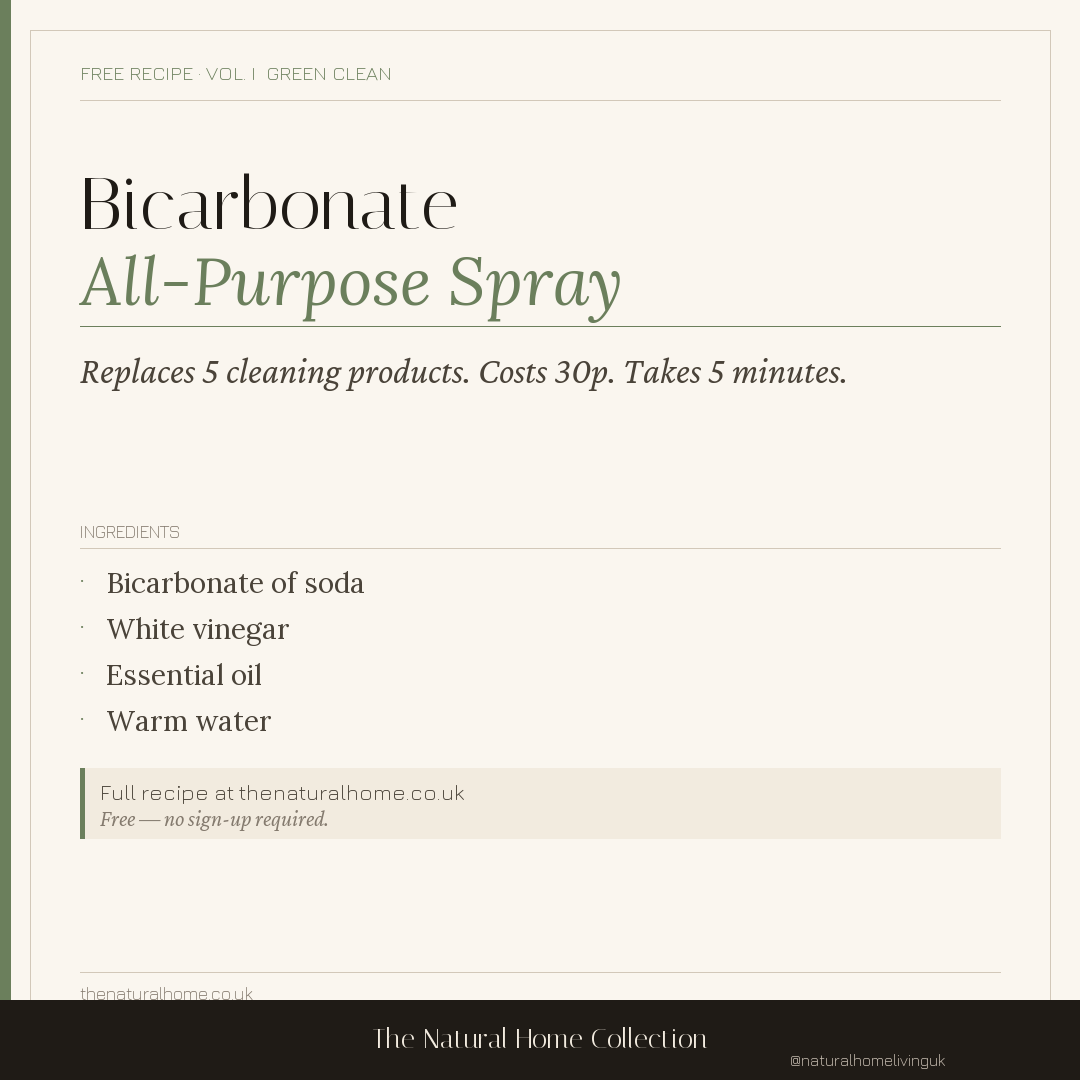
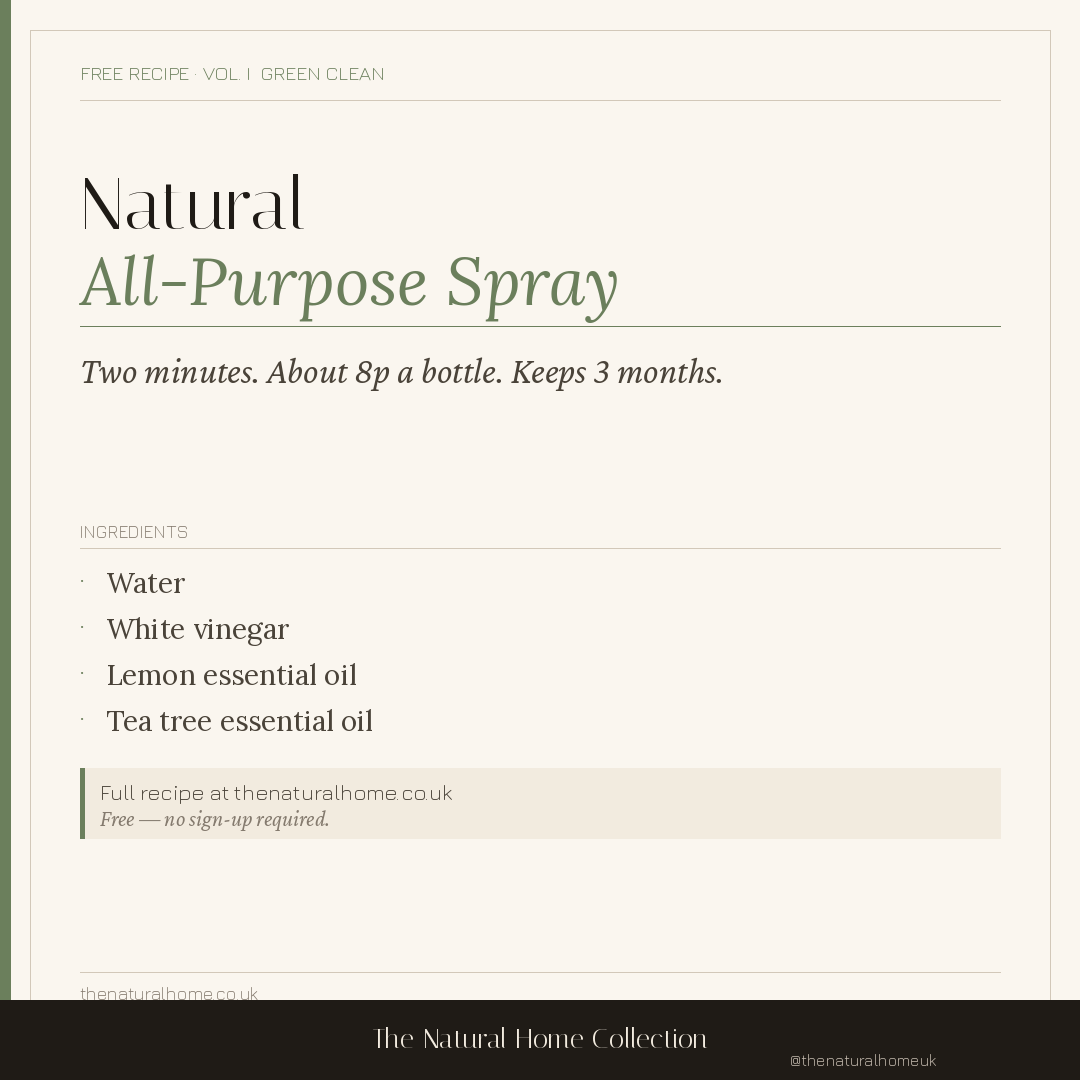
All-purpose spray: use the handbook's vinegar recipe; add homepage canonical
The old spray pre-mixed bicarbonate and vinegar, which the Green Clean
Handbook says cancel each other out. Replace it with the handbook's
Recipe 1 (All-Purpose Kitchen Spray) across the page, schema, meta,
recipe cards and Instagram post 07, and add a bare-domain canonical
to the homepage.

diff --git a/recipes/green-clean-all-purpose-spray.html b/recipes/green-clean-all-purpose-spray.html
@@ -11,36 +11,35 @@
 </script>
 <meta charset="UTF-8">
 <meta name="viewport" content="width=device-width, initial-scale=1.0">
-<title>Bicarbonate All-Purpose Cleaner Recipe — UK | The Natural Home Collection</title>
-<meta name="description" content="Free natural all-purpose cleaner recipe using bicarbonate of soda, white vinegar and essential oil. One spray for most hard surfaces. Costs about 30p per bottle. Tested in a UK home.">
+<title>Natural All-Purpose Cleaning Spray Recipe (Vinegar) — UK | The Natural Home Collection</title>
+<meta name="description" content="Free natural all-purpose cleaning spray recipe: water, white vinegar, lemon and tea tree essential oil. Makes 600 ml in two minutes for about 8p. From The Green Clean Handbook.">
 <link rel="canonical" href="https://thenaturalhome.co.uk/recipes/green-clean-all-purpose-spray.html">
-<meta property="og:title" content="Bicarbonate All-Purpose Cleaner Recipe — Free from The Natural Home Collection">
-<meta property="og:description" content="The one recipe that replaces five cleaning products under your sink — and costs about 30p to make.">
+<meta property="og:title" content="Natural All-Purpose Cleaning Spray Recipe (Vinegar) — Free from The Natural Home Collection">
+<meta property="og:description" content="Water, white vinegar and two essential oils. Two minutes to make, about 8p a bottle.">
 <meta property="og:type" content="article">
 <script type="application/ld+json">
 {
   "@context": "https://schema.org",
   "@type": "HowTo",
-  "name": "Natural Bicarbonate All-Purpose Cleaning Spray",
-  "description": "A natural all-purpose cleaning spray made from bicarbonate of soda, white vinegar, water and essential oil. Suitable for kitchen worktops, bathroom surfaces, glass and tiles.",
-  "totalTime": "PT5M",
-  "estimatedCost": { "@type": "MonetaryAmount", "currency": "GBP", "value": "0.30" },
+  "name": "Natural All-Purpose Kitchen Spray",
+  "description": "A natural all-purpose cleaning spray made from water, white vinegar, lemon essential oil and tea tree essential oil.",
+  "totalTime": "PT2M",
+  "estimatedCost": { "@type": "MonetaryAmount", "currency": "GBP", "value": "0.08" },
+  "yield": "600 ml",
   "supply": [
-    { "@type": "HowToSupply", "name": "Bicarbonate of soda — 1 tablespoon" },
-    { "@type": "HowToSupply", "name": "White distilled vinegar — 250 ml" },
-    { "@type": "HowToSupply", "name": "Warm water — 250 ml" },
-    { "@type": "HowToSupply", "name": "Lemon or tea tree essential oil — 10 drops" }
+    { "@type": "HowToSupply", "name": "Water — 500 ml" },
+    { "@type": "HowToSupply", "name": "White vinegar — 100 ml" },
+    { "@type": "HowToSupply", "name": "Lemon essential oil — 10 drops" },
+    { "@type": "HowToSupply", "name": "Tea tree essential oil — 5 drops" }
   ],
   "tool": [
-    { "@type": "HowToTool", "name": "500 ml glass spray bottle" },
-    { "@type": "HowToTool", "name": "Funnel" }
+    { "@type": "HowToTool", "name": "Spray bottle" },
+    { "@type": "HowToTool", "name": "Microfibre cloth" }
   ],
   "step": [
-    { "@type": "HowToStep", "name": "Fill the bottle", "text": "Pour the warm water into the spray bottle." },
-    { "@type": "HowToStep", "name": "Add the bicarbonate", "text": "Add the bicarbonate of soda. Swirl gently to dissolve. Some sediment is fine." },
-    { "@type": "HowToStep", "name": "Add the vinegar", "text": "Add the vinegar slowly. The mixture will fizz briefly — this is normal. Wait until it settles." },
-    { "@type": "HowToStep", "name": "Finish with essential oil", "text": "Add 10 drops of essential oil. Screw the cap on tightly and shake to combine." },
-    { "@type": "HowToStep", "name": "Use", "text": "Spray onto surfaces and wipe with a microfibre cloth. Shake before each use." }
+    { "@type": "HowToStep", "name": "Combine", "text": "Combine all ingredients in a spray bottle." },
+    { "@type": "HowToStep", "name": "Shake", "text": "Shake gently before each use." },
+    { "@type": "HowToStep", "name": "Spray and wipe", "text": "Spray onto surfaces and leave for 30 seconds before wiping with a microfibre cloth." }
   ],
   "author": { "@type": "Person", "name": "C. Morrison" }
 }
@@ -72,54 +71,51 @@
 </div>
 <section class="recipe-head">
   <span class="book-tag">From Volume i  ·  The Green Clean Handbook</span>
-  <h1 class="display reveal">Bicarbonate <em>All-Purpose</em> Cleaning Spray</h1>
-  <p class="lead reveal">The one recipe that replaces five cleaning products under your sink. Costs about 30p per bottle, takes five minutes, and works on every hard surface in the house except untreated wood and natural stone.</p>
+  <h1 class="display reveal">Natural <em>All-Purpose</em> Cleaning Spray</h1>
+  <p class="lead reveal">Water, white vinegar and two essential oils. Two minutes to make and about 8p a bottle, against £2.50–£4.00 for the supermarket equivalent — the best money-per-minute swap in the book.</p>
   <div class="meta-bar">
-    <div class="meta-item"><div class="meta-label">Time</div><div class="meta-value">5 mins</div></div>
-    <div class="meta-item"><div class="meta-label">Makes</div><div class="meta-value">500 ml</div></div>
-    <div class="meta-item"><div class="meta-label">Cost</div><div class="meta-value">~ 30p</div></div>
-    <div class="meta-item"><div class="meta-label">Shelf life</div><div class="meta-value">3 months</div></div>
+    <div class="meta-item"><div class="meta-label">Time</div><div class="meta-value">2 mins</div></div>
+    <div class="meta-item"><div class="meta-label">Makes</div><div class="meta-value">600 ml</div></div>
+    <div class="meta-item"><div class="meta-label">Cost</div><div class="meta-value">~ 8p</div></div>
+    <div class="meta-item"><div class="meta-label">Keeps</div><div class="meta-value">3 months</div></div>
   </div>
 </section>
 <div class="recipe-body">
   <aside class="ingredients-col">
     <h2>Ingredients</h2>
     <ul class="ingredients-list">
-      <li><strong>1 tbsp</strong> <a href="https://www.amazon.co.uk/s?k=bicarbonate+soda+5kg+bulk&tag=thenaturalhome-21" target="_blank" rel="noopener sponsored">bicarbonate of soda</a></li>
-      <li><strong>250 ml</strong> <a href="https://www.amazon.co.uk/s?k=white+distilled+vinegar+5+litre+cleaning&tag=thenaturalhome-21" target="_blank" rel="noopener sponsored">white distilled vinegar</a></li>
-      <li><strong>250 ml</strong> warm water (just off the kettle)</li>
-      <li><strong>10 drops</strong> <a href="https://www.amazon.co.uk/s?k=lemon+essential+oil+30ml&tag=thenaturalhome-21" target="_blank" rel="noopener sponsored">lemon</a> or <a href="https://www.amazon.co.uk/s?k=tea+tree+essential+oil+30ml&tag=thenaturalhome-21" target="_blank" rel="noopener sponsored">tea tree</a> essential oil</li>
+      <li><strong>500 ml</strong> water</li>
+      <li><strong>100 ml</strong> <a href="https://www.amazon.co.uk/s?k=white+distilled+vinegar+5+litre+cleaning&tag=thenaturalhome-21" target="_blank" rel="noopener sponsored">white vinegar</a></li>
+      <li><strong>10 drops</strong> <a href="https://www.amazon.co.uk/s?k=lemon+essential+oil+30ml&tag=thenaturalhome-21" target="_blank" rel="noopener sponsored">lemon essential oil</a></li>
+      <li><strong>5 drops</strong> <a href="https://www.amazon.co.uk/s?k=tea+tree+essential+oil+30ml&tag=thenaturalhome-21" target="_blank" rel="noopener sponsored">tea tree essential oil</a></li>
     </ul>
     <h2 style="margin-top:36px">You'll need</h2>
     <ul class="ingredients-list">
-      <li>A <a href="https://www.amazon.co.uk/s?k=amber+glass+spray+bottles+500ml+cleaning&tag=thenaturalhome-21" target="_blank" rel="noopener sponsored">500 ml glass spray bottle</a></li>
-      <li>A small funnel (optional but tidier)</li>
+      <li>A <a href="https://www.amazon.co.uk/s?k=amber+glass+spray+bottles+500ml+cleaning&tag=thenaturalhome-21" target="_blank" rel="noopener sponsored">glass spray bottle</a> (or two, for 600 ml)</li>
+      <li>A microfibre cloth</li>
     </ul>
     <p class="aside-disclosure">Ingredient links go to Amazon UK. As an Amazon Associate, C.&nbsp;Morrison earns from qualifying purchases — at no cost to you.</p>
   </aside>
   <div class="method-col">
     <h2>Method</h2>
     <ol class="method-list">
-      <li><strong>Pour the warm water</strong> into the spray bottle first. Doing this before the bicarbonate stops it clumping at the bottom of the bottle.</li>
-      <li><strong>Add the bicarbonate of soda</strong> and swirl gently until most of it dissolves. A little sediment is fine — it'll suspend evenly when you shake the bottle later.</li>
-      <li><strong>Add the vinegar slowly.</strong> The mixture will fizz for about ten seconds — this is just the bicarbonate and acid neutralising slightly. Wait until it settles before sealing the bottle.</li>
-      <li><strong>Finish with the essential oil.</strong> Lemon for kitchens (cuts grease), tea tree for bathrooms (fresh scent; not where cats sleep). Screw the cap on and shake to combine.</li>
-      <li><strong>Use.</strong> Spray onto surfaces and wipe with a microfibre cloth. Shake the bottle before each use because the bicarbonate settles between cleans.</li>
+      <li><strong>Combine</strong> all ingredients in a spray bottle.</li>
+      <li><strong>Shake gently</strong> before each use.</li>
+      <li><strong>Spray onto surfaces</strong> and leave for 30 seconds before wiping with a microfibre cloth.</li>
     </ol>
     <div class="tip-box">
-      <div class="tip-label">Green Tip</div>
-      <p>Don't use this on natural stone (granite, marble, slate) — vinegar etches the surface over time. For stone, swap the vinegar for a teaspoon of liquid castile soap and double the water.</p>
+      <div class="tip-label">Safety</div>
+      <p>Do <strong>not</strong> use vinegar on natural stone (marble, granite, limestone, slate), waxed or oiled wood, cast iron or aluminium — and never mix it with bleach. Ventilate, and keep essential-oil sprays away from cats and other pets.</p>
     </div>
-    <h3 style="font-family:var(--serif); font-size:24px; color:var(--ink); margin: 40px 0 16px;">What it cleans</h3>
+    <h3 style="font-family:var(--serif); font-size:24px; color:var(--ink); margin: 40px 0 16px;">Why it works</h3>
+    <p>The acetic acid dissolves greasy films and mineral marks; the oils add mild antimicrobial action and cover the short-lived vinegar smell.</p>
+    <h3 style="font-family:var(--serif); font-size:24px; color:var(--ink); margin: 40px 0 16px;">Troubleshooting</h3>
     <ul class="ingredients-list">
-      <li>Kitchen worktops, hobs, splashbacks</li>
-      <li>Bathroom sinks, taps, tiles, shower screens</li>
-      <li>Inside the fridge and microwave</li>
-      <li>Hard floors (mop with about 50 ml in a bucket of warm water)</li>
-      <li>Glass and mirrors (use sparingly and finish with a dry microfibre)</li>
+      <li>Streaks on shiny surfaces mean too much vinegar or a dirty cloth — dilute further and use a fresh microfibre.</li>
+      <li>If the smell bothers you, swap plain vinegar for citrus-infused vinegar.</li>
     </ul>
     <div class="note-block">
-      <p>Shelf life: 3 months in a dark cupboard. The vinegar's acidity keeps it fresh.</p>
+      <p>Keeps 3 months. There's no bicarbonate in this spray: bicarbonate and vinegar react once, fizz, and cancel each other out, so a stored mixture of the two is neither acid nor alkali.</p>
       <p>For tougher jobs (oven racks, grout) the book has a stronger paste recipe. This spray is the everyday workhorse.</p>
     </div>
   </div>

diff --git a/instagram/dashboard.html b/instagram/dashboard.html
@@ -591,22 +591,22 @@ Always check with your vet before trying anything new on your pet.
         <img src="07-recipe-spray.png" alt="All-Purpose Spray recipe">
       </div>
       <div class="post-body">
-        <div class="post-title">Recipe: Bicarbonate All-Purpose Spray</div>
+        <div class="post-title">Recipe: Natural All-Purpose Spray</div>
         <div class="caption-area">
           <div class="caption-text" id="caption-07">One simple spray for everyday cleaning.
 
-Four ingredients. Five minutes. Costs about 30p per bottle.
+Four ingredients. Two minutes. Costs about 8p a bottle.
 
-→ 250ml warm water
-→ 1 tbsp bicarbonate of soda
-→ 250ml white distilled vinegar
-→ 10 drops lemon essential oil (optional; ventilate, and keep essential-oil sprays away from cats and other pets)
+→ 500ml water
+→ 100ml white vinegar
+→ 10 drops lemon essential oil
+→ 5 drops tea tree essential oil
 
-Swirl, fizz, combine. Works on kitchen worktops, bathrooms, glass, tiles — everything except natural stone and untreated wood.
+Combine, shake gently, spray, leave 30 seconds, wipe with a microfibre cloth. Not on natural stone, waxed or oiled wood, cast iron or aluminium, and never mix with bleach. Ventilate, and keep essential-oil sprays away from cats and other pets.
 
 Full recipe at thenaturalhome.co.uk (link in bio) — free, no sign-up.</div>
           <button class="expand-btn" onclick="toggleCaption('07', this)">Read more ↓</button>
-          <div class="hashtags">#naturalcleaning #greenclean #allpurposecleaner #diycleaner #bicarbonateofsoda #naturalcleaningrecipe #ecofriendlycleaning #homemadecleaning #fewerbottles #cleaninghacks #sustainablelifestyle #homemadecleaner #ukblogger #slowliving #zerowastecleaning</div>
+          <div class="hashtags">#naturalcleaning #greenclean #allpurposecleaner #diycleaner #vinegarcleaning #naturalcleaningrecipe #ecofriendlycleaning #homemadecleaning #fewerbottles #cleaninghacks #sustainablelifestyle #homemadecleaner #ukblogger #slowliving #zerowastecleaning</div>
         </div>
       </div>
       <div class="post-actions">

diff --git a/index.html b/index.html
@@ -13,6 +13,7 @@
 <meta name="viewport" content="width=device-width, initial-scale=1.0">
 <title>The Natural Home Collection — by C. Morrison</title>
 <meta name="description" content="Five practical handbooks for natural cleaning, beauty, kitchen, herbal remedies, and pet care. By C. Morrison.">
+<link rel="canonical" href="https://thenaturalhome.co.uk/">
 <link rel="preconnect" href="https://fonts.googleapis.com">
 <link rel="preconnect" href="https://fonts.gstatic.com" crossorigin>
 <link href="https://fonts.googleapis.com/css2?family=Cormorant+Garamond:ital,wght@0,300;0,400;0,500;0,600;1,300;1,400&family=Inter+Tight:wght@300;400;500&family=Caveat:wght@400;500&display=swap" rel="stylesheet">

diff --git a/recipes/natural-beauty-lip-balm.html b/recipes/natural-beauty-lip-balm.html
@@ -153,8 +153,8 @@
     <div class="related-grid">
       <a href="green-clean-all-purpose-spray.html" class="related-card">
         <div class="related-book">Volume i  ·  Green Clean</div>
-        <h3>Bicarbonate All-Purpose Spray</h3>
-        <p>Replaces five cleaning products under your sink for about 30p a bottle.</p>
+        <h3>Natural All-Purpose Spray</h3>
+        <p>Water, white vinegar and two essential oils. About 8p a bottle.</p>
       </a>
       <a href="zero-waste-carrot-top-pesto.html" class="related-card">
         <div class="related-book">Volume iii  ·  Zero-Waste</div>

diff --git a/recipes/herbal-elderberry-syrup.html b/recipes/herbal-elderberry-syrup.html
@@ -146,8 +146,8 @@
     <div class="related-grid">
       <a href="green-clean-all-purpose-spray.html" class="related-card">
         <div class="related-book">Volume i  ·  Green Clean</div>
-        <h3>Bicarbonate All-Purpose Spray</h3>
-        <p>Replaces five cleaning products under your sink for about 30p a bottle.</p>
+        <h3>Natural All-Purpose Spray</h3>
+        <p>Water, white vinegar and two essential oils. About 8p a bottle.</p>
       </a>
       <a href="natural-beauty-lip-balm.html" class="related-card">
         <div class="related-book">Volume ii  ·  Beauty</div>

diff --git a/recipes/pet-care-paw-balm.html b/recipes/pet-care-paw-balm.html
@@ -182,8 +182,8 @@
     <div class="related-grid">
       <a href="green-clean-all-purpose-spray.html" class="related-card">
         <div class="related-book">Volume i  ·  Green Clean</div>
-        <h3>Bicarbonate All-Purpose Spray</h3>
-        <p>Replaces five cleaning products under your sink for about 30p a bottle.</p>
+        <h3>Natural All-Purpose Spray</h3>
+        <p>Water, white vinegar and two essential oils. About 8p a bottle.</p>
       </a>
       <a href="natural-beauty-lip-balm.html" class="related-card">
         <div class="related-book">Volume ii  ·  Beauty</div>

diff --git a/recipes/zero-waste-carrot-top-pesto.html b/recipes/zero-waste-carrot-top-pesto.html
@@ -157,8 +157,8 @@
     <div class="related-grid">
       <a href="green-clean-all-purpose-spray.html" class="related-card">
         <div class="related-book">Volume i  ·  Green Clean</div>
-        <h3>Bicarbonate All-Purpose Spray</h3>
-        <p>Replaces five cleaning products under your sink for about 30p a bottle.</p>
+        <h3>Natural All-Purpose Spray</h3>
+        <p>Water, white vinegar and two essential oils. About 8p a bottle.</p>
       </a>
       <a href="natural-beauty-lip-balm.html" class="related-card">
         <div class="related-book">Volume ii  ·  Beauty</div>

diff --git a/recipes/natural-beauty-face-oil.html b/recipes/natural-beauty-face-oil.html
@@ -182,8 +182,8 @@
       </a>
       <a href="green-clean-all-purpose-spray.html" class="related-card">
         <div class="related-book">Volume i  ·  Green Clean</div>
-        <h3>Bicarbonate All-Purpose Spray</h3>
-        <p>Replaces five cleaning products under your sink for about 30p a bottle.</p>
+        <h3>Natural All-Purpose Spray</h3>
+        <p>Water, white vinegar and two essential oils. About 8p a bottle.</p>
       </a>
       <a href="herbal-elderberry-syrup.html" class="related-card">
         <div class="related-book">Volume iv  ·  Herbal</div>

diff --git a/recipes/pet-care-oatmeal-shampoo.html b/recipes/pet-care-oatmeal-shampoo.html
@@ -192,8 +192,8 @@
       </a>
       <a href="green-clean-all-purpose-spray.html" class="related-card">
         <div class="related-book">Volume i  ·  Green Clean</div>
-        <h3>Bicarbonate All-Purpose Spray</h3>
-        <p>Replaces five cleaning products under your sink for about 30p a bottle.</p>
+        <h3>Natural All-Purpose Spray</h3>
+        <p>Water, white vinegar and two essential oils. About 8p a bottle.</p>
       </a>
       <a href="herbal-elderberry-syrup.html" class="related-card">
         <div class="related-book">Volume iv  ·  Herbal</div>

diff --git a/recipes/index.html b/recipes/index.html
@@ -61,8 +61,8 @@
         <text x="55" y="100" font-size="10" fill="#A0492D">❋</text>
       </svg>
     </div>
-    <h3>Bicarbonate All-Purpose Spray</h3>
-    <p>The one recipe that replaces five cleaning products under your sink — and costs about 30p to make.</p>
+    <h3>Natural All-Purpose Spray</h3>
+    <p>Water, white vinegar and two essential oils. Two minutes to make, about 8p a bottle.</p>
     <div class="card-cta">Read the recipe</div>
   </a>
 

diff --git a/recipes/pet-care-ear-cleaner.html b/recipes/pet-care-ear-cleaner.html
@@ -191,8 +191,8 @@
       </a>
       <a href="green-clean-all-purpose-spray.html" class="related-card">
         <div class="related-book">Volume i  ·  Green Clean</div>
-        <h3>Bicarbonate All-Purpose Spray</h3>
-        <p>Replaces five cleaning products under your sink for about 30p a bottle.</p>
+        <h3>Natural All-Purpose Spray</h3>
+        <p>Water, white vinegar and two essential oils. About 8p a bottle.</p>
       </a>
     </div>
   </div>

diff --git a/instagram/generate.py b/instagram/generate.py
@@ -423,9 +423,9 @@ def recipe_post(filename, vol_tag, title, hook, ingredients, accent):
 def post_07():
     recipe_post("07-recipe-spray.png",
                 "Free Recipe · Vol. I  Green Clean",
-                "Bicarbonate All-Purpose Spray",
-                "Replaces 5 cleaning products. Costs 30p. Takes 5 minutes.",
-                ["Bicarbonate of soda", "White vinegar", "Essential oil", "Warm water"],
+                "Natural All-Purpose Spray",
+                "Two minutes. About 8p a bottle. Keeps 3 months.",
+                ["Water", "White vinegar", "Lemon essential oil", "Tea tree essential oil"],
                 SAGE)
 
 def post_08():
